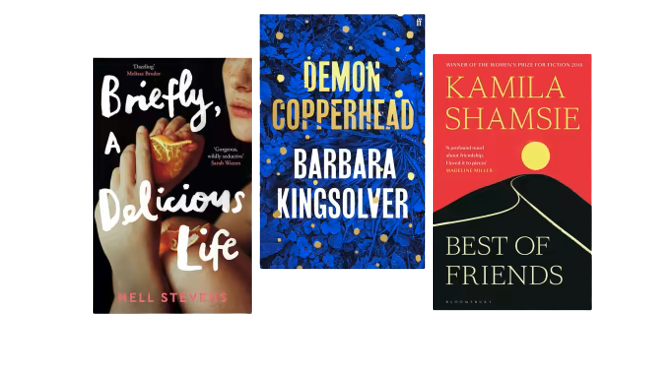
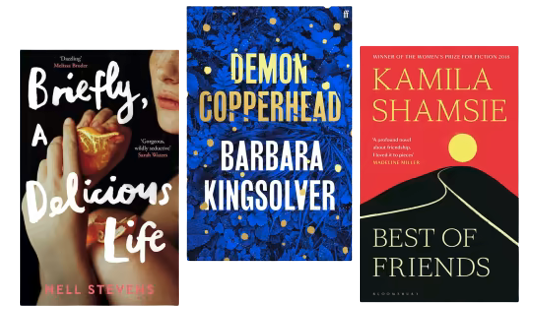
added hero section

diff --git a/src/assets/styles/layout/_heroSection.scss b/src/assets/styles/layout/_heroSection.scss
@@ -1,20 +1,68 @@
 .hero-section {
-  border: 1px solid red;
-  height: 30vh;
+  // border: 1px solid red;
+  height: 40vh;
   position: relative;
+  overflow: hidden;
+
+  .overlay {
+    // display: none;
+    // filter: blur(100px);
+    position: absolute;
+    top: 0;
+    bottom: 0;
+    left: 0;
+    right: 0;
+    background-color: #34323188;
+    z-index: 2;
+  }
 
   img {
     position: absolute;
-    right: 0;
+    left: 50%;
     top: 50%;
-    transform: translateY(-50%);
+    transform: translate(-50%, -50%);
+    // border: 1px solid black;
   }
 
   .hero-section-info {
+    width: 100%;
+    height: 100%;
     position: absolute;
-    z-index: 1;
+    // border: 1px solid red;
+    z-index: 4;
 
     .hero-statement {
+      // display: none;
+      position: absolute;
+      width: 65%;
+      text-align: center;
+      // border: 1px solid red;
+      top: 24%;
+      left: 50%;
+      transform: translateX(-50%);
+      font-size: 1.5em;
+      font-weight: 700;
+      z-index: 3;
+      color: whitesmoke;
+      font-family: 'Pacifico', cursive;
+
+      span {
+        
+      }
+    }
+
+    .btn-hero-section {
+      color: (--color-brand);
+      position: absolute;
+      top: 88%;
+      left: 50%;
+      transform: translate(-50%, -50%);
+      font-size: 0.875rem;
+      background-color: var(--color-secondary-light);
+
+      &:hover {
+        filter: saturate(200%);
+      }
     }
   }
 }

diff --git a/src/components/HeroSection.jsx b/src/components/HeroSection.jsx
@@ -6,13 +6,13 @@ const HeroSection = () => {
   const onLoginHandler = () => {};
   return (
     <section className="hero-section">
+      <div className="overlay"></div>
       <img src={heroImg} alt="books" />
       <div className="hero-section-info">
         <div className="hero-statement">
-          Join our community of book lovers and enjoy the thrill of discovering
-          new titles.
+        <span>Join our community of book lovers and enjoy the thrill.</span>
         </div>
-        <CTAButton onClick={onLoginHandler} label="Add Book" />
+        <CTAButton onClick={onLoginHandler} label="Add Book" classname="btn-hero-section" />
       </div>
     </section>
   );

diff --git a/src/components/CTAButton.jsx b/src/components/CTAButton.jsx
@@ -1,7 +1,7 @@
 import React from "react";
 
-const CTAButton = ({ label, onClickHandler }) => {
-  return <button className="btn CTAButton" onClick={onClickHandler}>{label}</button>;
+const CTAButton = ({ label, onClickHandler, classname = "" }) => {
+  return <button className={`btn CTAButton ${classname}`}  onClick={onClickHandler}>{label}</button>;
 };
 
 export default CTAButton;

diff --git a/src/assets/styles/base/_typography.scss b/src/assets/styles/base/_typography.scss
@@ -1,4 +1,5 @@
 @import url("https://fonts.googleapis.com/css2?family=Roboto:ital,wght@0,100;0,300;0,400;0,500;0,700;0,900;1,100;1,300;1,400;1,500;1,700;1,900&display=swap");
+@import url('https://fonts.googleapis.com/css2?family=Pacifico&display=swap');
 
 :root {
   font-family: "Roboto", sans-serif;

diff --git a/src/assets/styles/layout/_navbar.scss b/src/assets/styles/layout/_navbar.scss
@@ -2,7 +2,7 @@
   display: flex;
   justify-content: space-between;
   align-items: center;
-  padding: 0.5em 0.5em;
+  padding: 0.5em 0;
 }
 
 .nav-left .nav-right {

diff --git a/src/assets/styles/base/_resets.scss b/src/assets/styles/base/_resets.scss
@@ -15,4 +15,5 @@ img {
   margin: 0 auto;
   padding: 0 8px;
   border: solid 1px black;
+  background-color:  hsl(0, 0%, 94%);
 }
